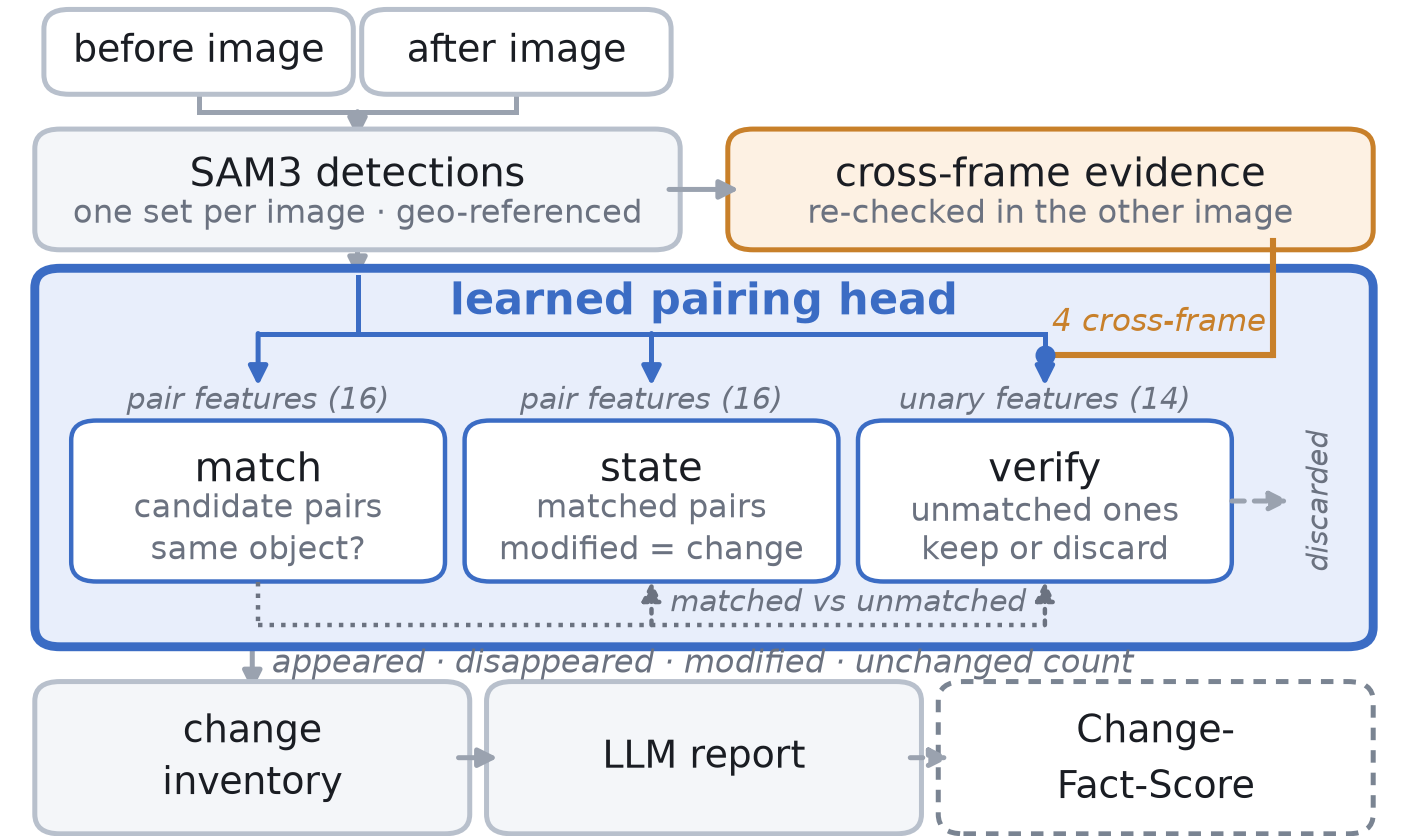
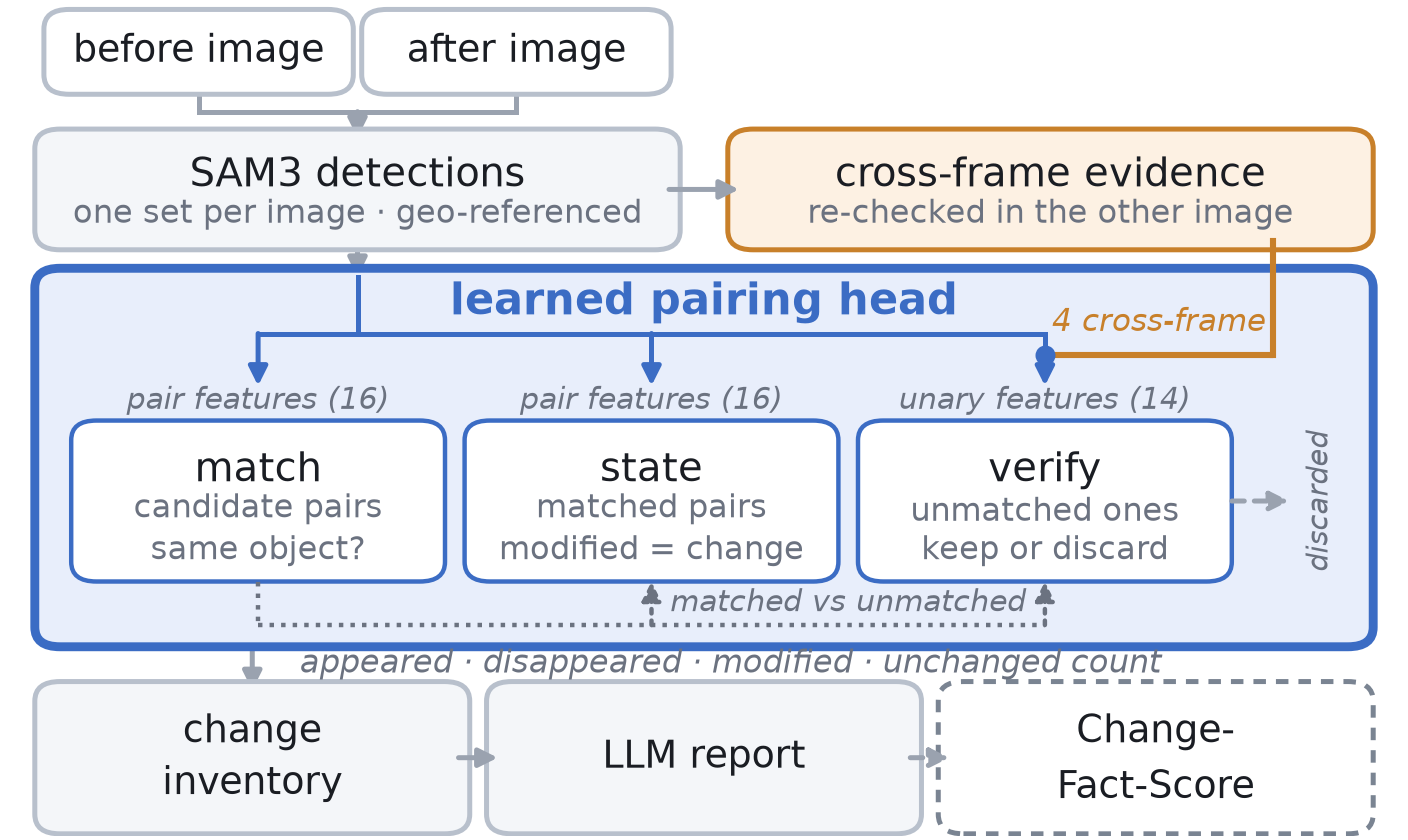
Clear the outcome label of the arrow it labels
At +0.014 the "a" of "appeared" sat against the arrow's shaft. A label
touching its own edge stops reading as a label and starts reading as
part of the drawing. It moves to +0.034, which is clear at column width
and still well short of the right margin.

Changed in both generators so they do not drift: gen_figure_pptx.js,
which is what the .pptx and therefore the paper's figure come from, and
gen_paper_figure.py, the layout of record the .pptx transcribes. The
.pptx, the figure PDF and PNG, and the layout preview are all
regenerated.

Six pages, checked. Deck validates.

Claude-Session: https://claude.ai/code/session_01Uzd5z5zjzi4ZxCrgX4PyRf

Changed region(s): [[0.1875, 0.7738, 0.8438, 0.8048]]

diff --git a/scripts/gen_figure_pptx.js b/scripts/gen_figure_pptx.js
@@ -194,8 +194,10 @@ tail.forEach(([text, fill, edge, dashed], i) => {
 });
 
 arrow(L + bw / 2, hy, L + bw / 2, ty + th, LINE, 1.2);
+// Cleared of the arrow it labels: at +0.014 the "a" sat against the shaft,
+// and a label touching its own edge reads as part of the drawing.
 slide.addText("appeared · disappeared · modified · unchanged count", {
-  x: fx(L + bw / 2 + 0.014), y: fy(y_out) - 0.16, w: 5.2, h: 0.32,
+  x: fx(L + bw / 2 + 0.034), y: fy(y_out) - 0.16, w: 5.2, h: 0.32,
   fontSize: pt(5.8), color: MUTED, italic: true, align: "left", valign: "middle",
   margin: 0, isTextBox: true, fontFace: "Calibri",
 });

diff --git a/scripts/gen_paper_figure.py b/scripts/gen_paper_figure.py
@@ -352,7 +352,8 @@ def build() -> None:
     # Centered on the clear band between the two rounded borders, not on the
     # raw gap: the boxstyle pad puts the drawn edges 0.008 outside the given
     # coordinates, and centring on the gap ran the text over both of them.
-    ax.text(L + bw / 2 + 0.014, y_out,
+    # Clear of the arrow it labels: at +0.014 the "a" sat against the shaft.
+    ax.text(L + bw / 2 + 0.034, y_out,
             "appeared · disappeared · modified · unchanged count",
             ha="left", va="center",
             fontsize=5.8, color=MUTED, style="italic")
